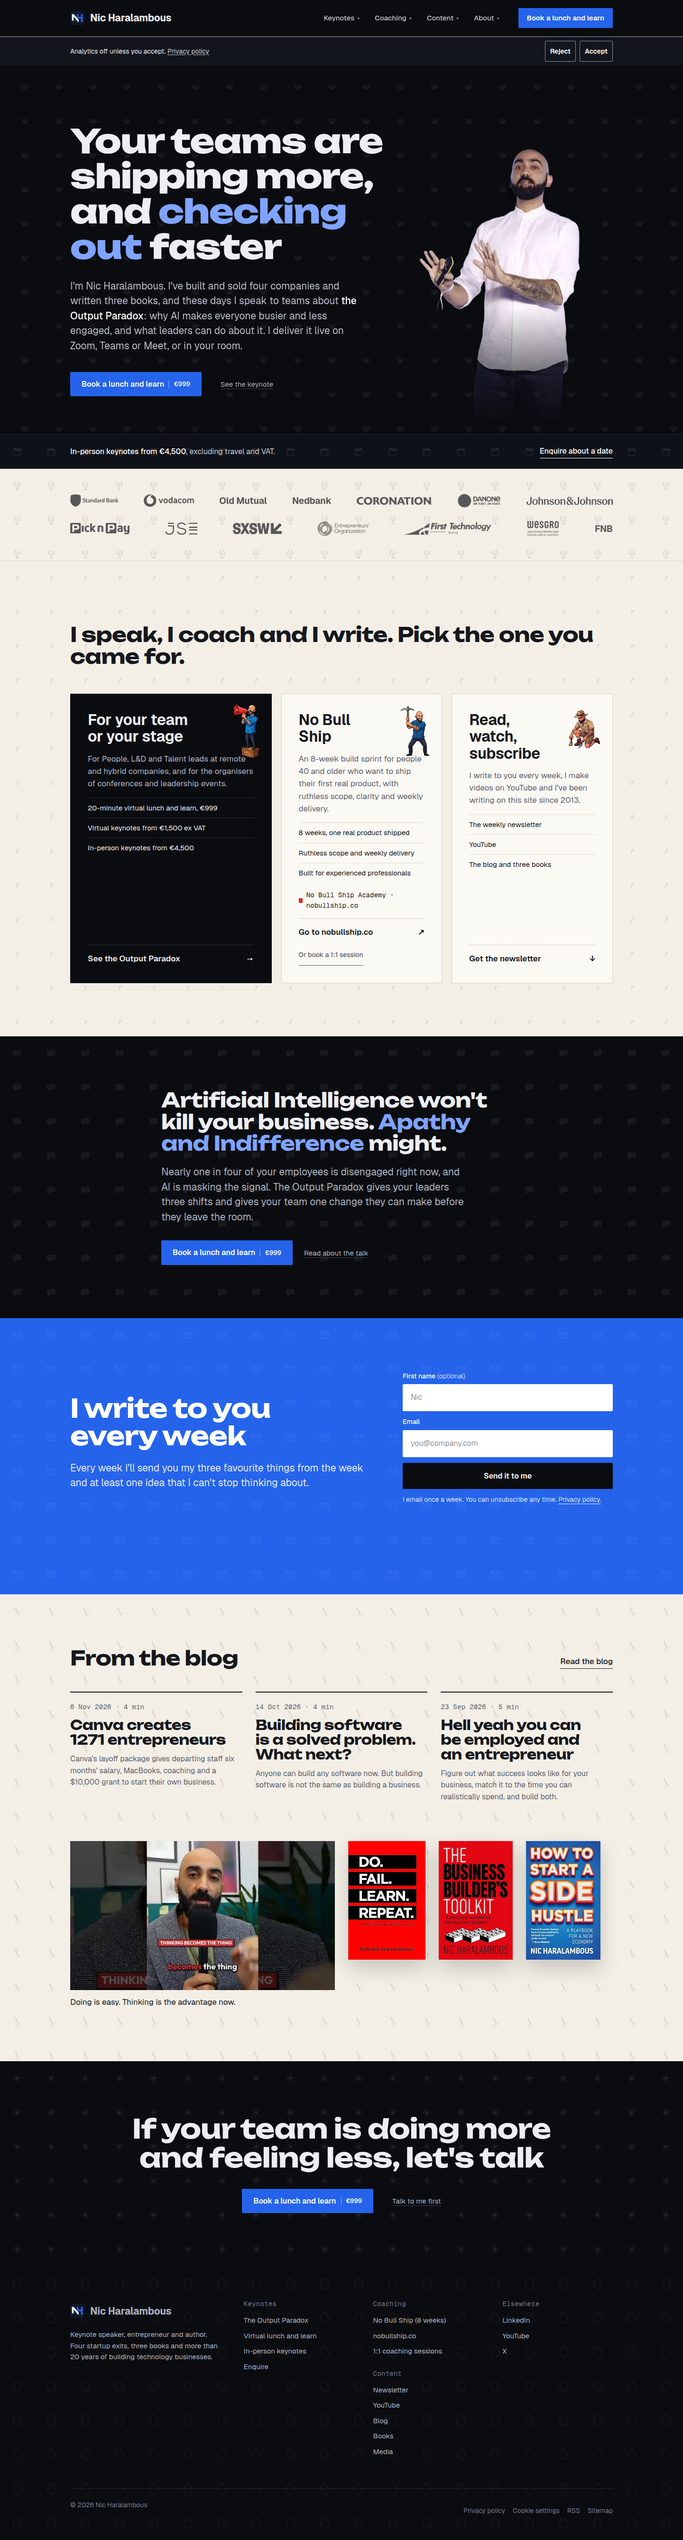
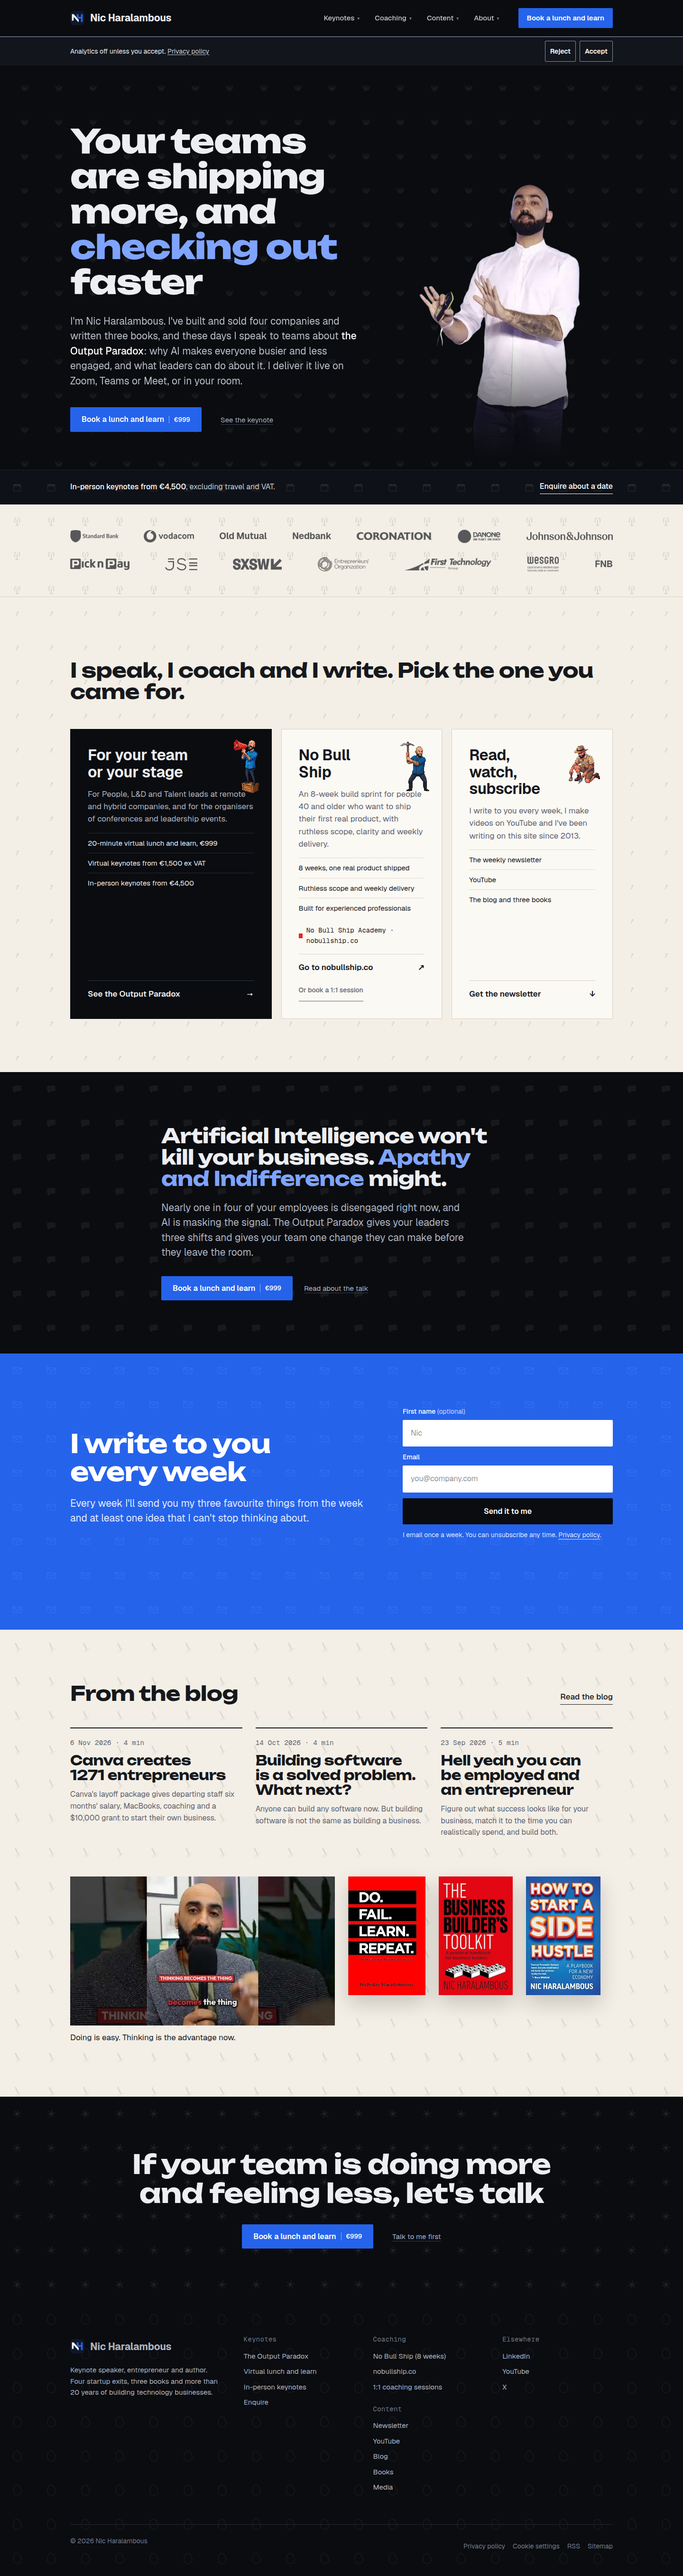
Keep highlighted H1 phrases together and hide the booking bar until the hero scrolls away.
nowrap on H1 highlights stays on at 360 because it does not overflow. The Output Paradox bar waits for the hero to leave the viewport.

diff --git a/components/site/sticky-book.tsx b/components/site/sticky-book.tsx
@@ -3,13 +3,13 @@
 import { useEffect, useState } from "react";
 import { bookNowHref } from "@/lib/site";
 
-/** Mobile bar on the Output Paradox page. Hidden while the hero booking card is on screen. */
+/** Mobile bar on the Output Paradox page. Hidden until the hero has left the viewport. */
 export function StickyBookBar() {
   const [visible, setVisible] = useState(false);
 
   useEffect(() => {
-    const card = document.getElementById("book");
-    if (!card) return;
+    const hero = document.querySelector(".hero.op");
+    if (!hero) return;
     const mobile = window.matchMedia("(max-width: 600px)");
     const observer = new IntersectionObserver(
       ([entry]) => {
@@ -17,7 +17,7 @@ export function StickyBookBar() {
       },
       { threshold: 0 },
     );
-    observer.observe(card);
+    observer.observe(hero);
     function onChange() {
       if (!mobile.matches) setVisible(false);
     }

diff --git a/app/v3.css b/app/v3.css
@@ -158,6 +158,10 @@ em.hl {
   color: var(--blue2);
 }
 
+.v3 h1 em {
+  white-space: nowrap;
+}
+
 .v3 section:not(.dark) h1 em,
 .v3 section:not(.dark) h2 em,
 .v3 .top h1 em {

diff --git a/docs/qa/r14/INDEX.md b/docs/qa/r14/INDEX.md
@@ -1,6 +1,6 @@
 # r14 Unbounded headings
 
-Home, media, one article, and the Output Paradox page after switching display headings to self-hosted Unbounded. Media shots are the top of the page. The others are the full page.
+Home, media, one article, and the Output Paradox page after switching display headings to self-hosted Unbounded. Media shots are the top of the page. The Output Paradox 360 shots are a 360×780 viewport: first load, then scrolled past the hero so the booking bar is visible. The others are the full page.
 
 - / at 1440: docs/qa/r14/home-1440.png
 - / at 360: docs/qa/r14/home-360.png
@@ -9,4 +9,5 @@ Home, media, one article, and the Output Paradox page after switching display he
 - /blog/advice-from-40-year-old-me-to-20-year-old-me at 1440: docs/qa/r14/article-1440.png
 - /blog/advice-from-40-year-old-me-to-20-year-old-me at 360: docs/qa/r14/article-360.png
 - /keynotes/output-paradox-reengage-teams at 1440: docs/qa/r14/output-paradox-1440.png
-- /keynotes/output-paradox-reengage-teams at 360: docs/qa/r14/output-paradox-360.png
+- /keynotes/output-paradox-reengage-teams at 360, first load: docs/qa/r14/output-paradox-360.png
+- /keynotes/output-paradox-reengage-teams at 360, scrolled past the hero: docs/qa/r14/output-paradox-360-scrolled.png
